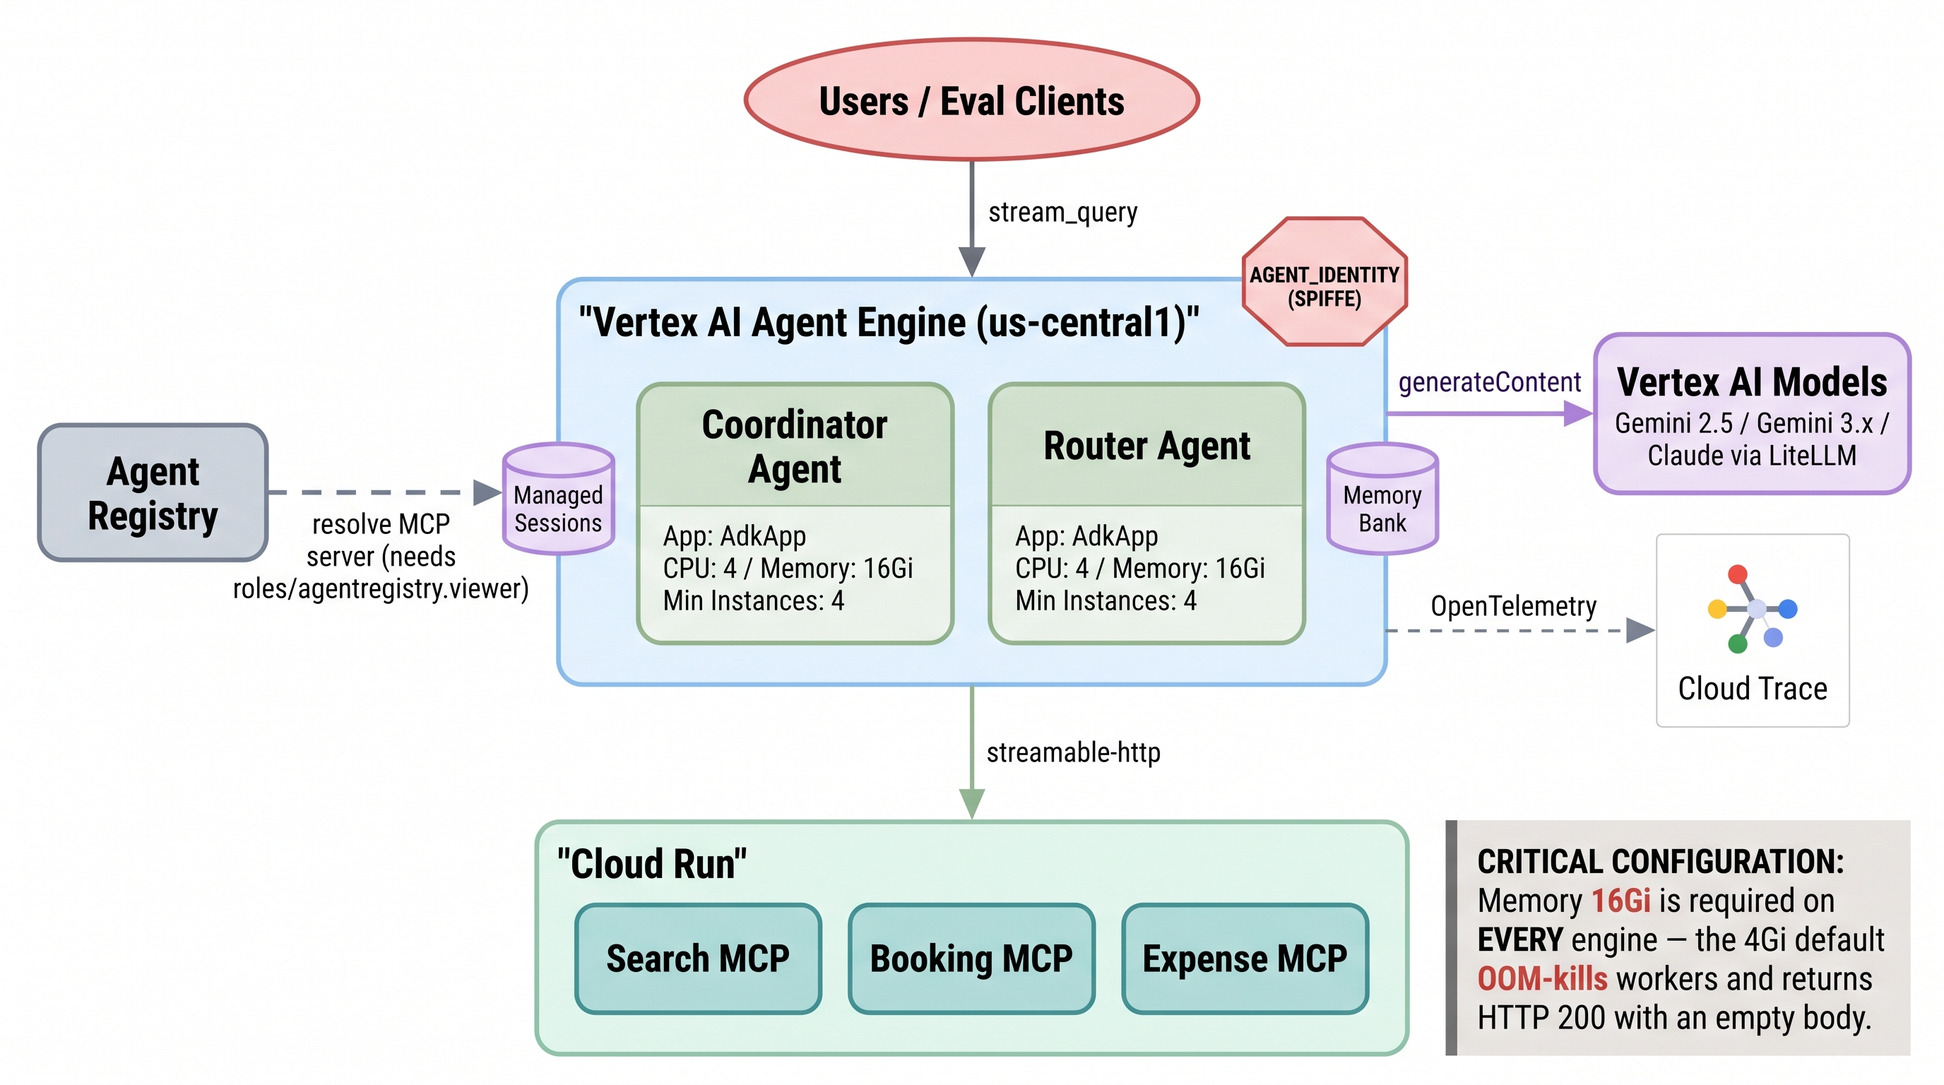
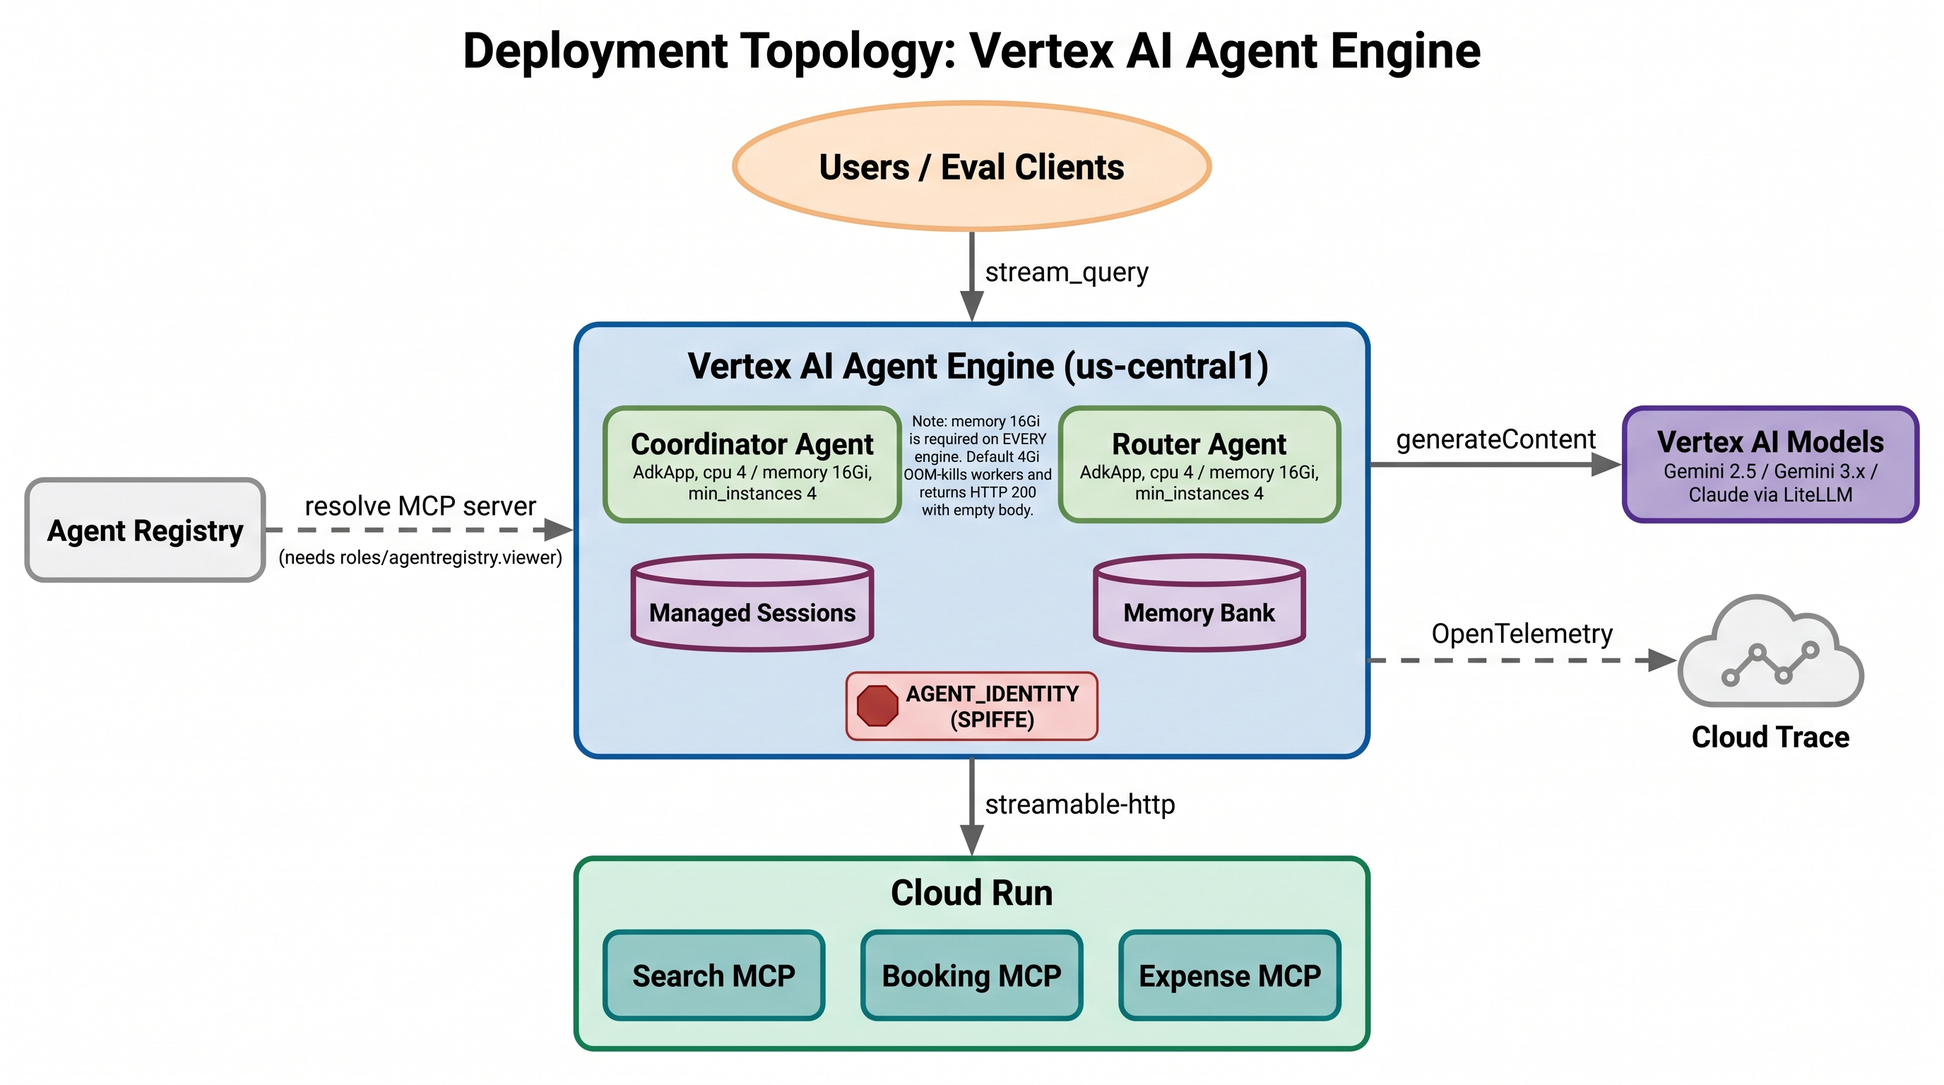
README: router boundaries were the superseded values; Quick Start silently under-tested (#114)
* docs(readme): correct router boundaries and a Quick Start that under-tests

The README stated the router cut-points as 0.44/0.60/0.80/0.95 and credited
them to the DOE. Two of the four are wrong, and the attribution is backwards:
COMPLEXITY_LOW is 0.25 and COMPLEXITY_HIGH is 0.925 precisely BECAUSE paired
side-by-side tests overrode the DOE values, after a dataset mean had diluted a
real regression to noise (flash beat lite 18-1 at the 0.44 cut; sonnet beat pro
17-1 at 0.80). Anyone reasoning about routing from the README was working from
superseded numbers. Now states the live values, the evidence that moved them,
and the consequence nobody should have to rediscover: the pro tier receives
nothing on this workload, so a 5-tier router serves three tiers here.

Quick Start told readers to run `uv sync` then `uv run pytest tests/`. That is
the exact trap CLAUDE.md warns about -- tests/conftest.py collect_ignores the
DOE and pipeline modules when pyDOE3/kfp are absent, so the suite comes back
green while ~40 tests never ran, with no skips and no warning. Now uses
`uv sync --all-groups` and `uv run --no-sync pytest`, and names the expected
count so a shortfall is visible rather than invisible.

Other drift closed:
* Skill Registry was missing entirely -- added to both the feature table and the
  project tree, stating plainly that publishing works and runtime discovery does
  not, rather than implying a working feature.
[…]

diff --git a/tests/test_dashboard.py b/tests/test_dashboard.py
@@ -16,6 +16,7 @@ from src.observability.dashboard import (
     create_or_update_dashboard,
 )
 from src.observability.metrics import (
+    INFRA_EMPTY_METRIC_TYPES,
     ONLINE_QUALITY_METRIC_TYPES,
     QUALITY_METRIC_TYPES,
     ROUTER_METRIC_TYPES,
@@ -50,13 +51,16 @@ def test_build_returns_dashboard_with_display_name():
 def test_build_has_widget_per_metric():
     d = build_dashboard()
     tiles = list(d.mosaic_layout.tiles)
-    # One tile per traffic + quality + online-quality + router metric, PLUS a
-    # per-model breakdown variant for every traffic + quality + online-quality
-    # metric (router is a single agent, no per-model split).
+    # One tile per traffic + quality + online-quality + infra-empty + router
+    # metric, PLUS a per-model breakdown variant for every traffic + quality +
+    # online-quality metric (router is a single agent, no per-model split; the
+    # infra-empty rate is an engine-level infra signal, not a per-model quality
+    # comparison, so it gets an aggregate tile only).
     base = (
         len(TRAFFIC_METRIC_TYPES)
         + len(QUALITY_METRIC_TYPES)
         + len(ONLINE_QUALITY_METRIC_TYPES)
+        + len(INFRA_EMPTY_METRIC_TYPES)
         + len(ROUTER_METRIC_TYPES)
     )
     breakdown = (
@@ -99,6 +103,7 @@ def test_every_metric_type_appears_in_some_widget():
         TRAFFIC_METRIC_TYPES
         + QUALITY_METRIC_TYPES
         + ONLINE_QUALITY_METRIC_TYPES
+        + INFRA_EMPTY_METRIC_TYPES
         + ROUTER_METRIC_TYPES
     ):
         assert mt in blob, f"metric type {mt} missing from dashboard widgets"
@@ -195,3 +200,18 @@ def test_import_needs_no_credentials():
     assert d is not None
     with pytest.raises(AttributeError):
         _ = d.does_not_exist
+
+
+def test_infra_empty_rate_is_visible_next_to_quality():
+    """The tile that explains most quality dips must be on the dashboard.
+
+    A helpfulness dip on this system is usually empty-at-200 responses rather
+    than a model regression (docs/notes/online-quality-monitor.md). The rate is
+    published on both surfaces and alerted at GT 0.2, but was absent from the
+    dashboard -- so the board showed the symptom and hid the cause. Assert both
+    tiles exist rather than trusting the metric list, which does not include it
+    (it is a verbatim 0-1 rate, not a 1-5 rubric with the shared 3.0 floor).
+    """
+    titles = {t.widget.title for t in build_dashboard().mosaic_layout.tiles}
+    assert "Infra: Empty-Response Rate (offline)" in titles
+    assert "Infra: Empty-Response Rate (online)" in titles

diff --git a/src/observability/dashboard.py b/src/observability/dashboard.py
@@ -26,6 +26,7 @@ from google.cloud import monitoring_dashboard_v1 as dashboard_v1
 
 from src.config import GCP_PROJECT_ID, RESOURCE_LABELS
 from src.observability.metrics import (
+    INFRA_EMPTY_METRIC_TYPES,
     ONLINE_QUALITY_METRIC_TYPES,
     QUALITY_METRIC_TYPES,
     ROUTER_METRIC_TYPES,
@@ -53,6 +54,12 @@ _TITLES = {
     "custom.googleapis.com/agent_router/classifier_accuracy_pct": "Router: Classifier Accuracy (%)",
     "custom.googleapis.com/agent_router/cost_savings_pct": ("Router: Cost Savings vs All-Opus (%)"),
     "custom.googleapis.com/agent_router/classifier_latency_ms": ("Router: Classifier Latency (ms)"),
+    # Read these next to the helpfulness tiles: a quality dip here is usually
+    # empty-at-200 responses, not the model getting worse.
+    "custom.googleapis.com/agent_eval/infra_empty_rate": "Infra: Empty-Response Rate (offline)",
+    "custom.googleapis.com/agent_online_eval/infra_empty_rate": (
+        "Infra: Empty-Response Rate (online)"
+    ),
 }
 
 _TILE_WIDTH = 6
@@ -113,6 +120,7 @@ def build_dashboard() -> dashboard_v1.Dashboard:
         for mt in list(TRAFFIC_METRIC_TYPES)
         + list(QUALITY_METRIC_TYPES)
         + list(ONLINE_QUALITY_METRIC_TYPES)
+        + list(INFRA_EMPTY_METRIC_TYPES)
         + list(ROUTER_METRIC_TYPES)
     ]
     specs += [

diff --git a/src/observability/metrics.py b/src/observability/metrics.py
@@ -88,6 +88,18 @@ ONLINE_QUALITY_METRIC_TYPES = [
     f"{METRIC_PREFIX}agent_online_eval/{name}" for name, _threshold in ONLINE_MONITORED_METRICS
 ]
 
+# The infra-empty rate is NOT in *_MONITORED_METRICS: those are 1-5 rubric scores
+# with a shared 3.0 floor, and this is a verbatim 0-1 rate with its own GT-0.2
+# alert. It still needs to be *visible*, which is a separate question from how it
+# is alerted — a helpfulness dip on this system is usually empty-at-200 responses
+# rather than a model regression, and a dashboard showing the dip without the
+# explanation sends the reader looking for a quality problem that isn't there.
+INFRA_EMPTY_RATE = "infra_empty_rate"
+INFRA_EMPTY_METRIC_TYPES = [
+    f"{METRIC_PREFIX}agent_eval/{INFRA_EMPTY_RATE}",
+    f"{METRIC_PREFIX}agent_online_eval/{INFRA_EMPTY_RATE}",
+]
+
 # Traffic metric types (bare, un-prefixed) emitted from a load-run summary.
 TRAFFIC_LATENCY_P50 = "agent_traffic/request_latency_p50"
 TRAFFIC_LATENCY_P95 = "agent_traffic/request_latency_p95"

diff --git a/README.md b/README.md
@@ -13,15 +13,16 @@ A hands-on workshop demonstrating the full Gemini Enterprise Agent Platform (GEA
 | **Multi-Model Router** | 5-tier complexity router across Gemini and Claude — one direct-tools agent that swaps **model + prompt** per tier |
 | **Memory Bank** | Cross-session recall via `VertexAiMemoryBankService`, an optional per-invocation preload cache, and seed/verify CLIs |
 | **Deployment** | Agent Runtime deployment with SPIFFE identity, gateway, keep-warm `--min-instances`, and OTel tracing |
-| **Evaluation** | Offline batch (6 metrics), multi-turn simulated eval, a continuous **online quality monitor**, tool-call **faithfulness**, a diverse judge panel, and judge-vs-human calibration |
+| **Evaluation** | Offline batch (6 metrics), a continuous **online quality monitor**, tool-call **faithfulness**, a diverse judge panel, and judge-vs-human calibration. Multi-turn `simulated_eval` is **quarantined** — it returns zero metrics on google-cloud-aiplatform 2.1.0 for reasons inside the SDK's own parsing; it still runs in CI so we find out if upstream fixes it |
 | **Monitoring** | Three published metric surfaces (`agent_eval/*`, `agent_online_eval/*`, `agent_router/*`) plus managed engine-health alerts and rolling-baseline anomaly detection |
 | **Experiments** | DOE framework (fractional-factorial → one Vertex PipelineJob per design point) and a Gemini-vs-Claude coordinator bake-off |
 | **Optimization** | GEPA (Gemini Evolutionary Prompt Algorithm) with sampler configs for the coordinator, router, travel, expense, and all 5 model-tier agents |
-| **Model Armor** | Model Armor templates for input/output screening + a client-side guardrail with block telemetry |
+| **Model Armor** | Two layers — ADK's first-party Model Armor plugin (default **on**) and region-scoped templates, plus a client-side guardrail with block telemetry that is the guaranteed layer on every backbone |
+| **Skill Registry** | Three instruction-only travel/expense skills in git, an idempotent publish CLI, and an opt-in `SkillToolset` (default **off**) — publishing is verified live; runtime discovery is blocked upstream and [documented as such](docs/notes/skill-registry.md) |
 | **Governance** | Agent identity (SPIFFE), agent gateway (ingress + egress), Agent Registry, Semantic Governance Policies (SGP) |
 | **A2A** | Agent-to-agent card publication + discovery for the coordinator (preview-optional, degrades gracefully) |
 | **Topology** | App Hub registration for agent-to-MCP topology visualization |
-| **CI/CD** | Always-on unit tests, an advisory label-gated eval gate, and the eval DAG as a Vertex Managed Pipeline |
+| **CI/CD** | Always-on unit tests, an advisory eval gate (label-gated **and** weekly, because a label-only gate went 15 runs without executing once), and the eval DAG as a Vertex Managed Pipeline |
 
 ## Documentation
 
@@ -30,26 +31,30 @@ A hands-on workshop demonstrating the full Gemini Enterprise Agent Platform (GEA
 | [Workshop Guide](docs/workshop_guide.md) | Full 4-session hands-on walkthrough |
 | [Component FAQ](docs/faq.md) | What each component does and why it matters |
 | [Evaluation Guide](docs/eval_operations.md) | Evaluation pipeline operations |
-| [Engineering Notes](docs/notes/README.md) | 30 root-cause / design notes (streaming, quota, latency, memory scope, eval bridges) |
+| [Engineering Notes](docs/notes/README.md) | 44 root-cause / design notes (streaming, quota, latency, memory scope, eval bridges) |
 | [Demo Notebooks](notebooks/demo/README.md) | SDK-first platform + evaluation tours; every billable cell is opt-in |
-| [GEPA Analysis](docs/gepa_optimization_analysis.md) | Prompt optimization before/after results |
-| [Cross-Model Experiment](docs/cross_model_experiment.md) | All models × all complexity tiers |
-| [Cost Comparison](docs/multi_model_cost_comparison.md) | Multi-model routing cost analysis |
+| [GEPA Analysis](docs/gepa_optimization_analysis.md) | Prompt optimization before/after results — **historical (2026-05)**, engine ids dead |
+| [Cross-Model Experiment](docs/cross_model_experiment.md) | All models × all complexity tiers — **historical (2026-08-05)**; its "use Lite for medium" conclusion was later measured and rejected |
+| [Cost Comparison](docs/multi_model_cost_comparison.md) | Multi-model routing cost analysis — **historical**; three-tier framing and model ids superseded |
 | [Code Standards](CODE_STANDARDS.md) | Git, Python tooling, and testing conventions |
 | [Slides](docs/slides.pptx) | Workshop deck (34 slides) |
 
 ## Quick Start
 
 ```bash
-# Install dependencies
-uv sync
+# Install dependencies — --all-groups matters. tests/conftest.py drops the DOE and
+# pipeline modules when pyDOE3/kfp are absent, so a bare `uv sync` gives you a
+# green run that is quietly ~40 tests short, with no skips and no warning.
+uv sync --all-groups
 
 # Copy and configure environment
 cp .env.example .env
 # Edit .env with your GCP project details
 
-# Run tests (offline — no live GCP or MCP connections needed)
-uv run pytest tests/
+# Run tests (offline — no live GCP or MCP connections needed). Expect 1793.
+# Use --no-sync: a bare `uv run` re-syncs to the default groups and re-creates
+# the same silent shortfall.
+uv run --no-sync pytest tests/
 
 # Deploy everything in one command
 bash scripts/deploy_all.sh
@@ -69,6 +74,10 @@ uv run python -m src.deploy.deploy_agents coordinator --update
 
 # Prove the deployed agent's MCP toolsets actually resolve their tools
 uv run python -m src.eval.verify_mcp_tools --json
+
+# A merged fix is not a deployed fix — diff a LIVE engine against the baseline
+# (read-only; exits non-zero only on critical drift, e.g. a 4Gi container)
+uv run python -m src.deploy.verify_engine_config
 
 # Score sampled live traffic and publish the online quality surface
 uv run python -m src.eval.online_monitor --agent-id <ENGINE_ID>
@@ -147,11 +156,24 @@ Both deployables hold their MCP toolsets **directly** on the root agent. That is
 
 `travel_agent` and `expense_agent` are no longer wired under the coordinator, but they remain **independently evaluated** agents with their own evalsets (`multi_agent_batch_eval --agents travel_agent`) — separate deployables, not duplication.
 
-Router tiers by complexity score (defaults, DOE-tuned for cost savings): `<0.44` lite (`gemini-3.1-flash-lite`), `0.44–0.60` flash (`gemini-3.5-flash`), `0.60–0.80` sonnet (`claude-sonnet-4-6`), `0.80–0.95` pro (`gemini-3.1-pro-preview`), `≥0.95` opus (`claude-opus-4-6`). All four cut-points are env-overridable (`COMPLEXITY_LOW` / `MEDIUM_SPLIT` / `COMPLEXITY_HIGH` / `HIGH_SPLIT`).
+Router tiers by complexity score (defaults): `<0.25` lite (`gemini-3.1-flash-lite`), `0.25–0.60` flash (`gemini-3.5-flash`), `0.60–0.925` sonnet (`claude-sonnet-4-6`), `0.925–0.95` pro (`gemini-3.1-pro-preview`), `≥0.95` opus (`claude-opus-4-6`). All four cut-points are env-overridable (`COMPLEXITY_LOW` / `MEDIUM_SPLIT` / `COMPLEXITY_HIGH` / `HIGH_SPLIT`) and both outer ones are guarded as **critical** by the deployed-engine baseline, because they bake in at deploy time and drift silently otherwise.
+
+Two of those cut-points were deliberately moved **off** their DOE-tuned values by paired side-by-side tests, because a dataset *mean* had diluted a real regression to noise. At the DOE's 0.44 low cut every 0.40-scoring "medium" prompt went to lite, where flash beat it **18–1** (p=0.0001) — so `COMPLEXITY_LOW` dropped to 0.25. `COMPLEXITY_HIGH` moved the other way, 0.80 → 0.925, after sonnet beat pro **17–1**. Net effect: `routing_accuracy_pct` 50% → **82.5%** for 0.3pp of cost savings, so the two monitored series were never actually in conflict. One consequence worth stating plainly rather than glossing: **the pro tier now receives nothing on this workload**, joining opus — the 5-tier router serves three tiers here. See [docs/notes/router-boundary-experiment.md](docs/notes/router-boundary-experiment.md).
 
 ### Paper Banana Architecture Diagrams
 
-Regenerated 2026-08-22 against the current system. Specs live in `diagrams/inputs/`; regenerate with `./scripts/generate_diagrams.sh`.
+Specs live in `diagrams/inputs/`; regenerate with `./scripts/generate_diagrams.sh`.
+
+All eight regenerated 2026-09-10 from corrected specs, after four of them
+(`01_multi_agent_topology`, `05_observability_stack`, `06_ci_cd_flow`,
+`07_agent_armor`) were found to disagree with the system they describe.
+`07_agent_armor` was the worst: it claimed a Gemini-3 or Claude backbone ran with
+the client-side guardrail as its *only* layer, which stopped being true when ADK's
+Model Armor plugin became the default in #111.
+
+Regeneration needs `GOOGLE_API_KEY` (or `OPENAI_API_KEY`), read from `.env` or the
+environment. Note that a missing or unusable key fails **every item individually
+while the batch still exits 0** — read the per-item table, not the exit code.
 
 | Diagram | Description |
 |---------|-------------|
@@ -201,6 +223,11 @@ src/
 │   ├── publish_router_efficiency.py # Router efficiency → agent_router/*
 │   ├── quality_alerts.py, baseline.py, verify_monitors.py  # Alerts + z-score anomalies
 │   ├── verify_mcp_tools.py, verify_memory.py, verify_cross_session_recall.py
+│   ├── verify_router_health.py       # Empty-at-200 rate, Wilson interval, non-zero exit
+│   ├── demo_readiness.py             # Pre-demo preflight across every live surface
+│   ├── trajectory_eval.py            # Ordered tool calls + a `returned` flag per call
+│   ├── dataset_manifest.py           # Evalset drift vs a committed manifest (CI-enforced)
+│   ├── annotate.py                   # Blind second-annotation pass over the gold set
 │   ├── seed_demo_memories.py, latency_probe.py, cost_model.py, pairwise_eval.py
 │   ├── complexity_metrics.py        # Router accuracy + cost efficiency
 │   ├── cross_model_experiment.py    # All models × all tiers
@@ -221,8 +248,15 @@ src/
 ├── deploy/                    # Deployment (Agent Runtime + Cloud Run)
 │   ├── deploy_agents.py       # Deploy/update agents with auto .env write
 │   ├── deploy_mcp_servers.py  # Deploy MCP servers to Cloud Run
+│   ├── engine_baseline.py     # Executable serving-config baseline (rules as data)
+│   ├── verify_engine_config.py # Diff a LIVE engine against it; non-zero on critical drift
+│   ├── find_orphan_engines.py # Engines nothing in .env references any more
 │   ├── register_a2a.py        # Publish / discover the A2A agent card
 │   └── deploy_all.py          # Python end-to-end deployment
+├── skills/                    # Skill Registry (opt-in, ENABLE_SKILL_REGISTRY)
+│   ├── definitions.py         # 3 instruction-only skills in git; no code_executor
+│   ├── publish_skills.py      # Idempotent create-or-update publish/inspect CLI
+│   └── toolset.py             # SkillToolset via GCPSkillRegistry; degrades to None
 ├── optimize/                  # GEPA optimization configs + runner
 │   └── run_optimize.py        # Python-native GEPA runner
 ├── traffic/                   # Traffic generation for OTel traces
@@ -255,5 +289,5 @@ docs/                          # Workshop guide, analysis reports, charts, and n
 ├── prompts/                       # Before/after prompt comparisons
 ├── charts/                        # Matplotlib + PaperBanana visualizations
 └── notes/                         # Engineering session notes (indexed in notes/README.md)
-tests/                         # 78 test files, offline — no live GCP or MCP needed
+tests/                         # 102 test files, offline — no live GCP or MCP needed
 ```

diff --git a/docs/multi_model_cost_comparison.md b/docs/multi_model_cost_comparison.md
@@ -5,6 +5,22 @@
 > "The future is multi-model — right model for right task and needs at hand."
 > — [gemini-model-router](https://github.com/jswortz/gemini-model-router)
 
+> **HISTORICAL — the three-tier framing and the model ids below are both
+> superseded.** Kept for the cost thesis and the worked example, not as a
+> description of what runs today. Three specific things to not carry away:
+>
+> * **The router has five tiers, not three** — lite → flash → sonnet → pro → opus.
+> * **The model ids never existed here.** "Gemini 2.0 Flash Lite" and "Claude Opus
+>   4-7" are not models this repo has used; the tiers are `gemini-3.1-flash-lite`,
+>   `gemini-3.5-flash`, `gemini-3.1-pro-preview`, `claude-sonnet-4-6` and
+>   `claude-opus-4-6` by default, and the deployed router pins the Gemini tiers to
+>   2.5. `src/config.py` is the source of truth.
+> * **The routed examples below are now wrong.** Under the current cut-points a
+>   0.30 score routes to **flash** (not lite) and 0.80 routes to **sonnet** (not
+>   opus) — `COMPLEXITY_LOW` is 0.25 and `COMPLEXITY_HIGH` is 0.925, and pro/opus
+>   receive nothing on this workload. See
+>   [router-boundary-experiment.md](notes/router-boundary-experiment.md).
+
 This demo routes prompts by complexity to the most cost-effective model:
 - **Low** (simple lookups) → Gemini 2.0 Flash Lite ($0.075/M input)
 - **Medium** (moderate reasoning) → Gemini 2.5 Flash ($0.15/M input)

diff --git a/docs/cross_model_experiment.md b/docs/cross_model_experiment.md
@@ -1,5 +1,24 @@
 # Cross-Model Complexity Experiment
 
+> **HISTORICAL — measured 2026-08-05 on Gemini-3 tier engines. Its headline
+> recommendation has since been measured and rejected.**
+>
+> The numbers below are real, and they are kept as measured. What changed is the
+> conclusion drawn from them. This report says "**Use Lite** for medium complexity —
+> no reason to spend more", on the strength of Lite scoring 0.73 vs Sonnet's 0.79 on
+> the medium tier: a **dataset mean**.
+>
+> A later paired side-by-side test on the individual prompts found the opposite.
+> On the medium prompts the router was actually sending to Lite, **flash beat lite
+> 18–1 (p=0.0001)** — a real quality loss the mean had diluted to roughly 0.04.
+> `COMPLEXITY_LOW` was dropped 0.44 → 0.25 specifically to stop routing those
+> prompts to Lite, taking `routing_accuracy_pct` from 50% to 82.5% for 0.3pp of cost
+> savings. See [router-boundary-experiment.md](notes/router-boundary-experiment.md).
+>
+> Read this report as evidence for *why an aggregate can mislead*, not as current
+> routing guidance. The tier agents were also on Gemini-3 model ids then and are
+> pinned to Gemini-2.5 now, so the per-model scores are not comparable to today's.
+
 ## Experiment Overview
 
 This experiment tests all 5 model-tier agents on all 3 complexity levels to measure how each model handles queries above and below its intended tier.
